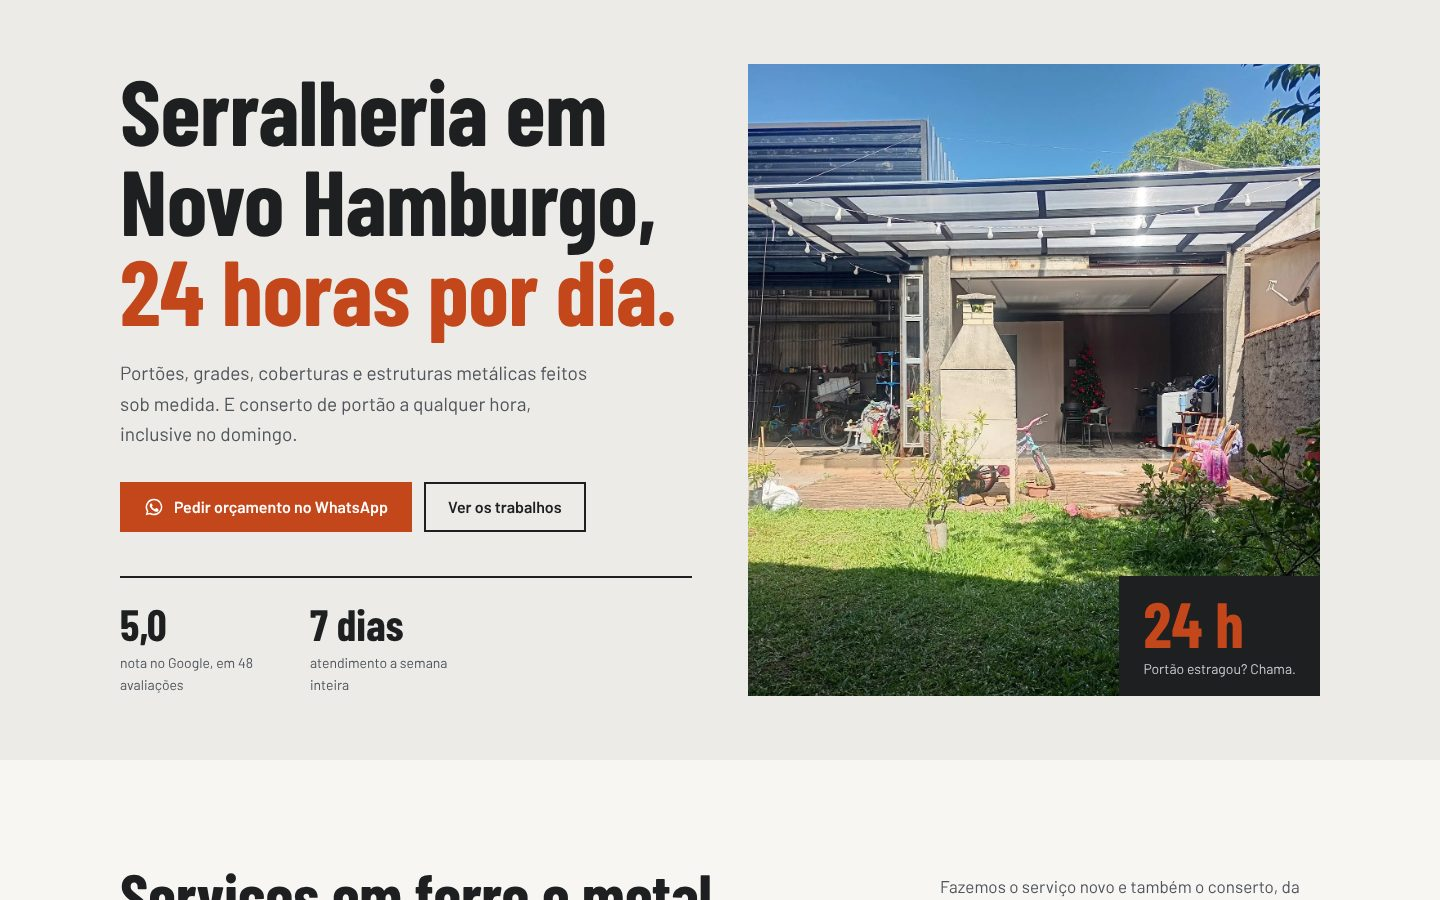
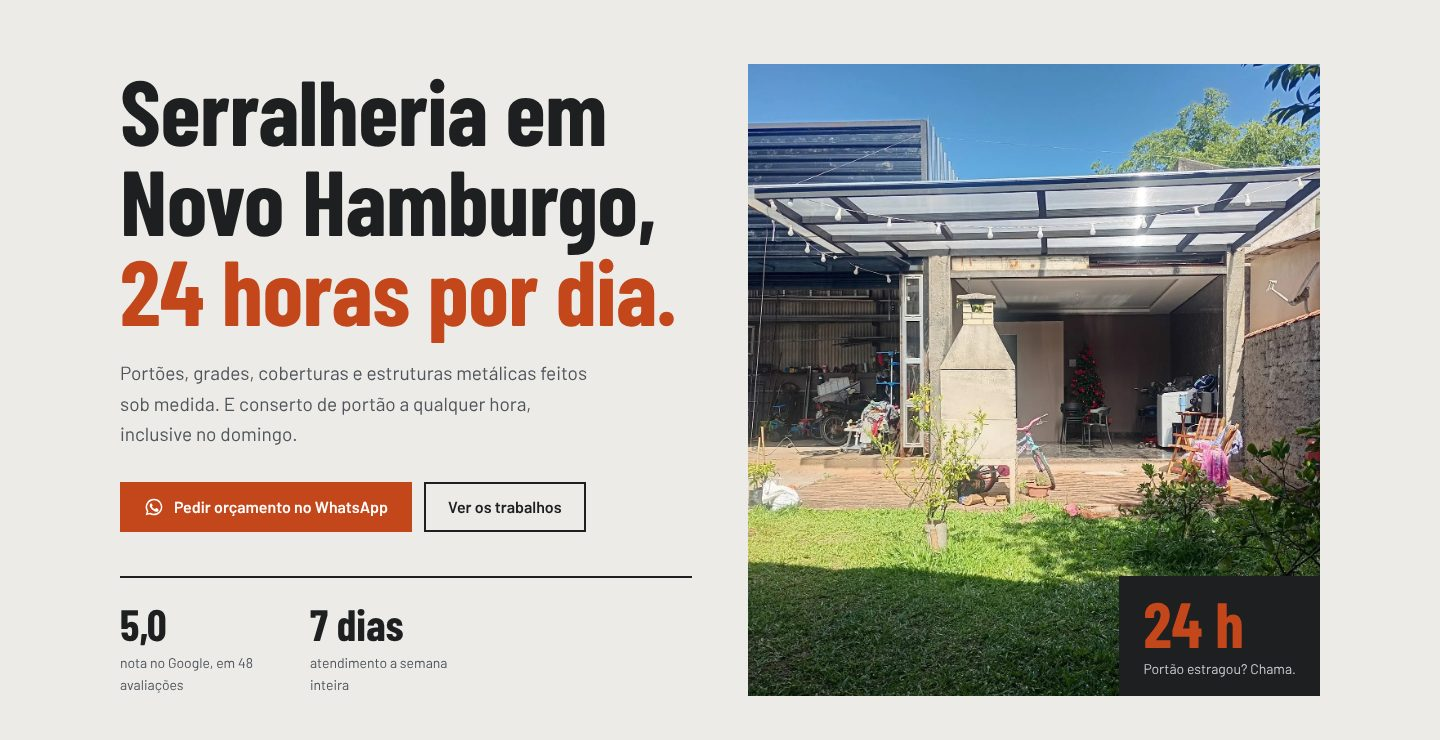
Portfólio: topo mais limpo com duas prévias e cards de prévias sem corte
Claude-Session: https://claude.ai/code/session_01BucXToaDXgnpeatRSNxMeH

diff --git a/index.html b/index.html
@@ -58,8 +58,10 @@
   #servicos .card--plan .price { margin: 0; }
   #servicos .extras { margin-top: var(--s-8, 48px); max-width: 820px; }
   #trabalhos .panel { --p-h: 320px; }
-  #previas .panel { --p-h: 200px; }
-  #previas .panel .frame__img { object-position: 50% 0; }
+  #previas .panel { height: auto; aspect-ratio: 1440 / 740; }
+  #previas .panel .frame__img { width: 100%; height: 100%; object-fit: cover; object-position: 50% 0; }
+  .hero__media { background: transparent; }
+  .hero__media > img { object-fit: contain; }
   #confortize .phones { display: grid; grid-template-columns: repeat(3, minmax(0, 1fr)); gap: var(--s-4); align-items: start; }
   #confortize .phones img { width: 100%; height: auto; border-radius: 18px; box-shadow: 0 12px 32px rgba(40, 10, 14, .14); }
   #confortize .phones img:nth-child(2) { margin-top: 48px; }
@@ -97,7 +99,7 @@
               <span class="t-small muted">Guia de matchups de League of Legends</span>
             </a>
             <a class="menu-card span-4" href="#previas">
-              <div class="panel"><img width="1440" height="900" class="frame__img" src="previa-serralheria.jpg" alt="Prévia de site para uma serralheria"></div>
+              <div class="panel"><img width="1440" height="740" class="frame__img" src="previa-serralheria.jpg" alt="Prévia de site para uma serralheria"></div>
               <span class="t-card">Prévias prontas</span>
               <span class="t-small muted">Sites montados para negócios da região</span>
             </a>
@@ -162,23 +164,23 @@
         <h2 id="previas-h">Prévias prontas. <span class="muted">Montadas com as fotos que cada negócio já tinha no Google.</span></h2>
       </div>
       <div class="grid">
-        <article class="card card--row card--open span-3">
-          <div class="panel panel--top"><img width="1440" height="900" class="frame__img" src="previa-vidracaria.jpg" alt="Topo de uma prévia de site para vidraçaria, com uma sacada de vidro" loading="lazy"></div>
+        <article class="card card--row card--open span-6">
+          <div class="panel panel--top"><img width="1440" height="740" class="frame__img" src="previa-vidracaria.jpg" alt="Topo de uma prévia de site para vidraçaria, com uma sacada de vidro" loading="lazy"></div>
           <h3>Vidraçaria em Canoas</h3>
           <p>Box, sacadas e molduras, com o endereço novo da loja em destaque.</p>
         </article>
-        <article class="card card--row card--open span-3">
-          <div class="panel panel--top"><img width="1440" height="900" class="frame__img" src="previa-serralheria.jpg" alt="Topo de uma prévia de site para serralheria, com uma cobertura metálica" loading="lazy"></div>
+        <article class="card card--row card--open span-6">
+          <div class="panel panel--top"><img width="1440" height="740" class="frame__img" src="previa-serralheria.jpg" alt="Topo de uma prévia de site para serralheria, com uma cobertura metálica" loading="lazy"></div>
           <h3>Serralheria em Novo Hamburgo</h3>
           <p>Portões e coberturas, com o atendimento 24 horas na primeira tela.</p>
         </article>
-        <article class="card card--row card--open span-3">
-          <div class="panel panel--top"><img width="1440" height="900" class="frame__img" src="previa-funilaria.jpg" alt="Seção de uma prévia de site para funilaria com quatro etapas do serviço" loading="lazy"></div>
+        <article class="card card--row card--open span-6">
+          <div class="panel panel--top"><img width="1440" height="740" class="frame__img" src="previa-funilaria.jpg" alt="Seção de uma prévia de site para funilaria com quatro etapas do serviço" loading="lazy"></div>
           <h3>Funilaria em Canoas</h3>
           <p>Lataria, pintura e estética, mostrando o caminho do carro pela oficina.</p>
         </article>
-        <article class="card card--row card--open span-3">
-          <div class="panel panel--top"><img width="1440" height="900" class="frame__img" src="previa-oficina.jpg" alt="Seção de uma prévia de site para oficina com fotos de antes e depois" loading="lazy"></div>
+        <article class="card card--row card--open span-6">
+          <div class="panel panel--top"><img width="1440" height="740" class="frame__img" src="previa-oficina.jpg" alt="Seção de uma prévia de site para oficina com fotos de antes e depois" loading="lazy"></div>
           <h3>Oficina em Campo Bom</h3>
           <p>Recuperação de batidas, com fotos de como o carro chega e como sai.</p>
         </article>
